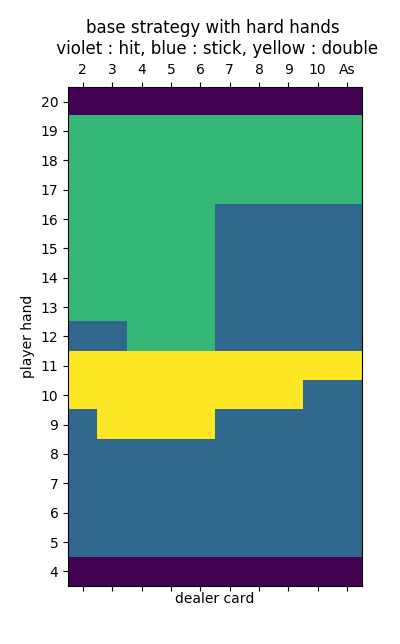
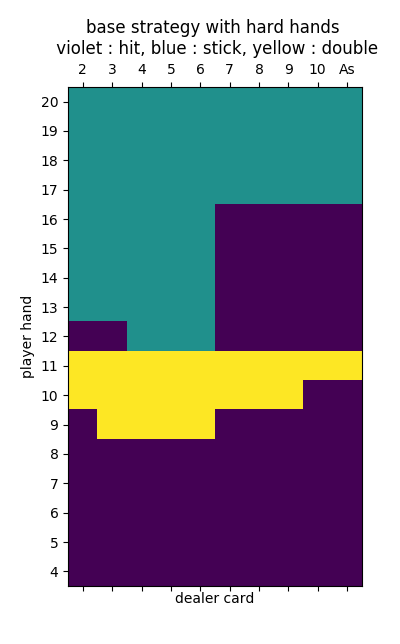
results counter

diff --git a/util/tools.py b/util/tools.py
@@ -106,7 +106,7 @@ def visualizePolicy(policy):
             pair[10-player, dealer-1] = actions_space[policy[state]]
         elif typ == "soft" and player < 21:
             soft[20-player, dealer-1] = actions_space[policy[state]]
-        elif typ == "hard" and player < 21:
+        elif typ == "hard" and player < 21 and player > 3:
             hard[20-player, dealer-1] = actions_space[policy[state]]
 
     rpAs = pair[-1,:].reshape(1,10)
@@ -130,7 +130,7 @@ def visualizePolicy(policy):
     dlabel = ["2", "3", "4", "5", "6", "7", "8", "9", "10", "As"]
     plabel = ["As,As", "10,10","9,9", "8,8", "7,7", "6,6", "5,5", "4,4", "3,3",
         "2,2"]
-    slabel = ["20", "19", "18", "17", "16", "15", "14", "13"]
+    slabel = ["A,9", "A,8", "A,7", "A,6", "A,5", "A,4", "A,3", "A,2"]
     hlabel = ["20", "19", "18", "17", "16", "15", "14", "13", "12", "11", "10",
         "9", "8", "7", "6", "5", "4"]
     plt.matshow(pair)
